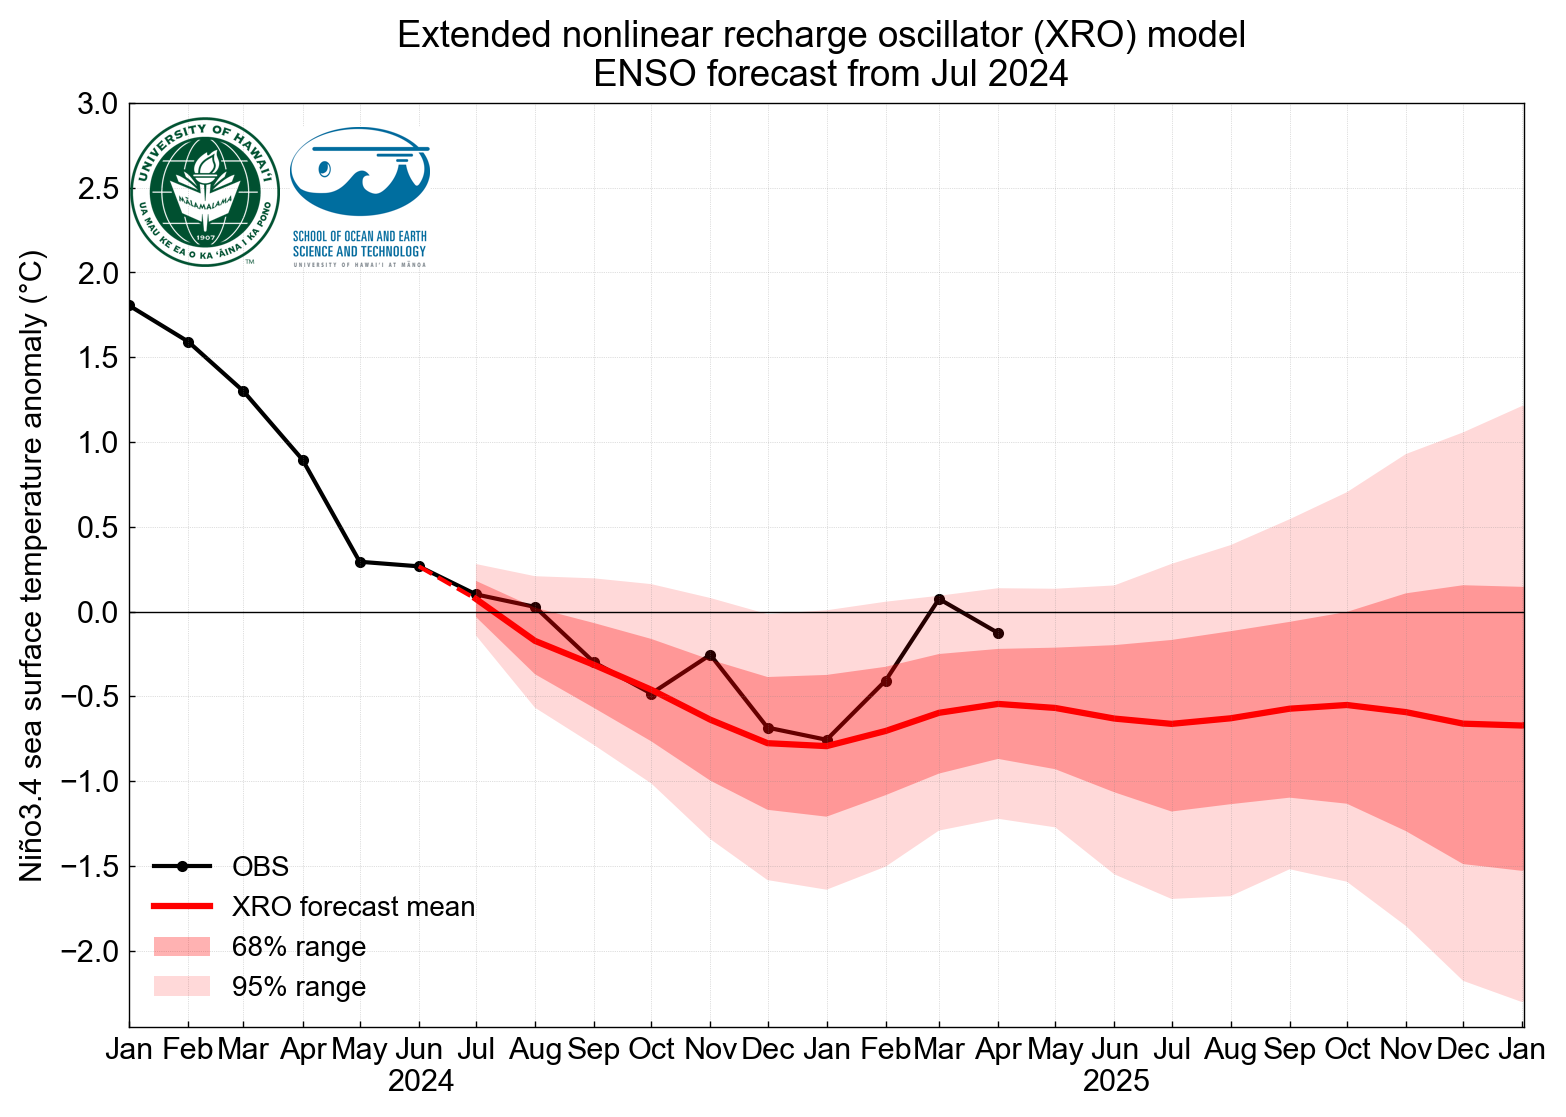
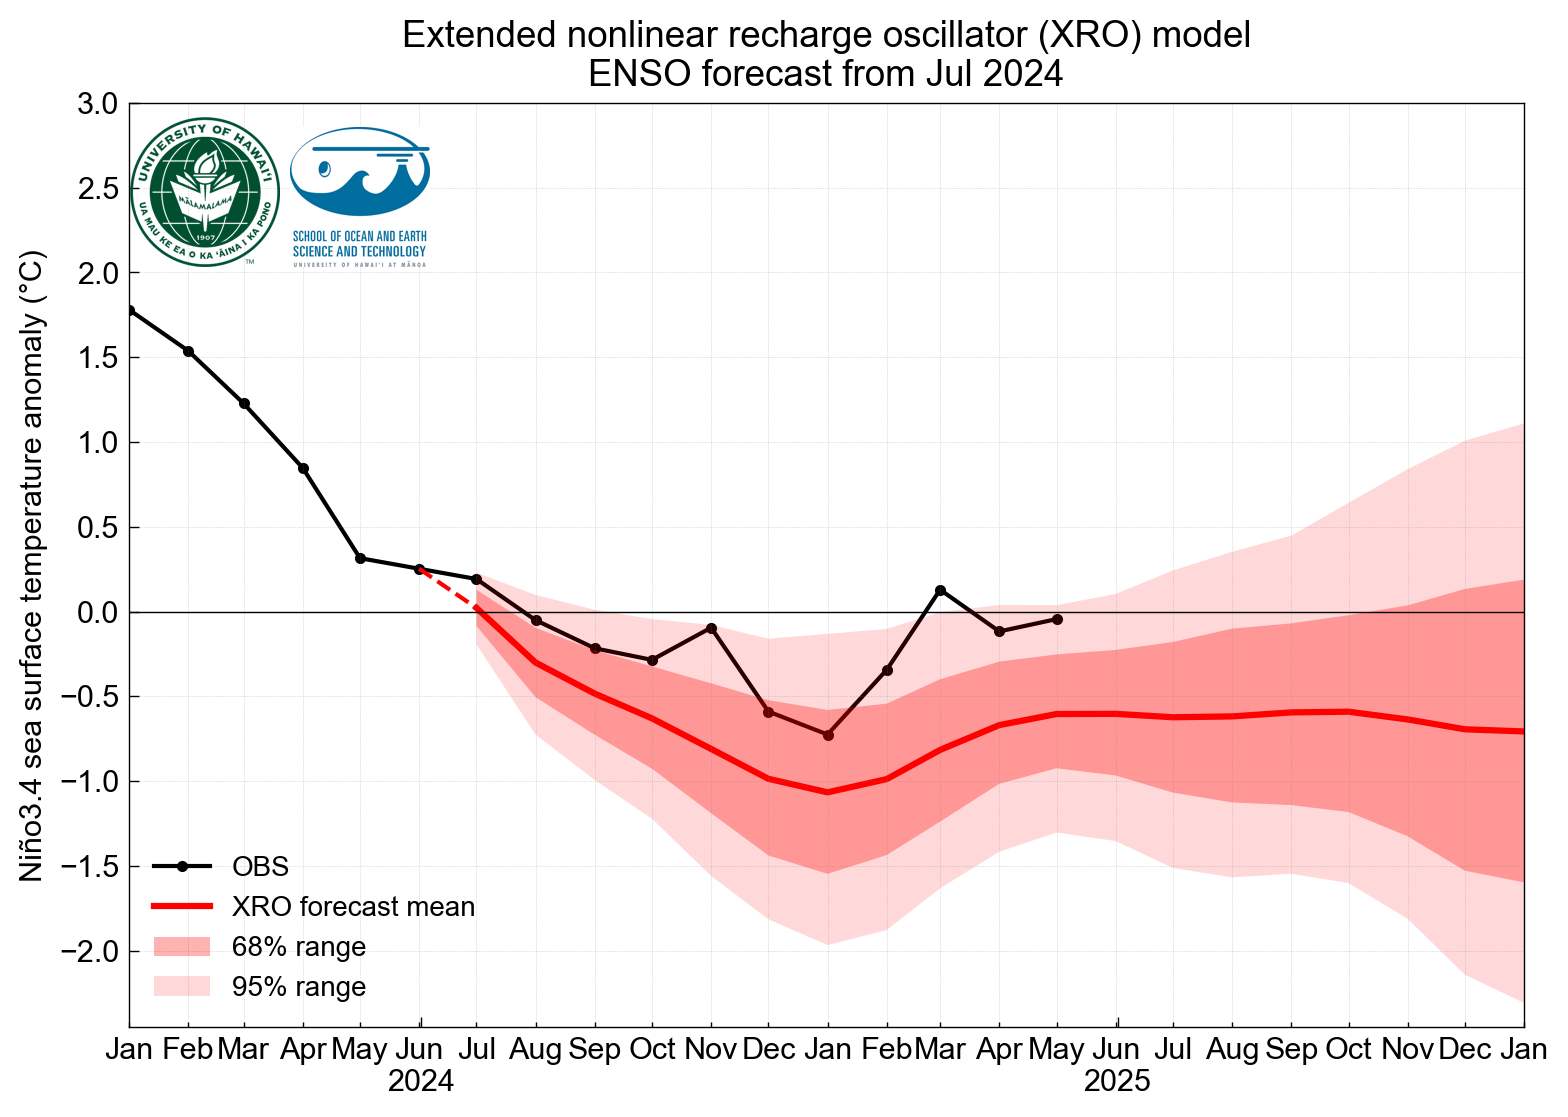
update: XRO fcst update

diff --git a/content/climate/XRO/data.md b/content/climate/XRO/data.md
@@ -1,51 +1,176 @@
 ---
-# Documentation: https://sourcethemes.com/academic/docs/managing-content/
 
-linktitle: "Forecast data"
-summary: "Climate hindicasts and forecasts using the Extended nonlinear recharge oscillator (XRO) model "
+linktitle: "ENSO Forecast Data"
+summary: ""
 weight: 1
 
 # Page metadata.
-title: XRO Niño3.4 monthly forecast data
+title: "Operational XRO Climate Forecasts"
 date: "2024-08-09T00:00:00Z"
 lastmod: "2024-08-09T00:00:00Z"
-draft: false  # Is this a draft? true/false
+draft: false
 toc: false  # Show table of contents? true/false
-# type: book  # Do not modify.
-
-# Add menu entry to sidebar.
-# - name: Declare this menu item as a parent with ID `name`.
-# - weight: Position of link in menu.
+type: book  # Do not modify.
 
 
 ---
 
-## 
-Deterministic **XRO** forecast in which the stochastic forcing terms are neglected during the integration (See details in Zhao et al. 2024)
+### 📝 XRO Niño3.4 SST anomaly monthly forecast data
 
+Deterministic **XRO** Niño3.4 SST anomaly monthly forecasts (where stochastic forcing terms are excluded during model integration, see [Zhao et al., 2024, Nature](https://rdcu.be/dLZxC) for model formulation and details.)
+- Units are in **degrees Celsius (°C)**
+- Forecasts are updated monthly
 
+---
+
+<!-- Load SheetJS library -->
 <script src="https://cdnjs.cloudflare.com/ajax/libs/xlsx/0.18.5/xlsx.full.min.js"></script>
 
+<!-- Excel Table Container -->
+<div id="excel-display" style="margin-top: 1em;"></div>
 
-<div id="excel-display"></div>
+<!-- Styling for Excel Table -->
+<style>
+  #excel-display table {
+    border-collapse: collapse;
+    width: 100%;
+    font-family: Arial, sans-serif;
+    font-size: 14px;
+    margin-top: 1rem;
+  }
 
+  #excel-display th, #excel-display td {
+    border: 1px solid #ddd;
+    padding: 8px;
+    text-align: center;
+  }
 
+  #excel-display thead tr th {
+    font-weight: bold;
+    background-color: #f2f2f2;
+  }
+
+  #excel-display tbody tr:nth-child(even) {
+    background-color: #f9f9f9;
+  }
+
+  #excel-display tbody tr:hover {
+    background-color: #f1f1f1;
+  }
+
+  #excel-display tbody td:first-child {
+    font-weight: bold;
+    background-color: #fafafa;
+  }
+</style>
+
+<!-- Script -->
 <script>
-  function handleFileSelect() {
-    const url = '../XRO_ENSO_fcst.xlsx'; // Replace with the actual path to your Excel file
+  async function handleFileSelect() {
+    const url = '../XRO_ENSO_fcst.xlsx';  // Adjust path as needed
 
-    fetch(url)
-      .then(response => response.arrayBuffer())
-      .then(data => {
-        const workbook = XLSX.read(data, { type: 'array' });
-        const sheetName = workbook.SheetNames[0];
-        const worksheet = workbook.Sheets[sheetName];
-        const htmlString = XLSX.utils.sheet_to_html(worksheet);
+    try {
+      const response = await fetch(url);
+      const arrayBuffer = await response.arrayBuffer();
+      const workbook = XLSX.read(arrayBuffer, { type: 'array' });
+      const sheetName = workbook.SheetNames[0];
+      const worksheet = workbook.Sheets[sheetName];
 
-        document.getElementById('excel-display').innerHTML = htmlString;
-      })
-      .catch(error => console.error('Error fetching the Excel file:', error));
+      const rawHTML = XLSX.utils.sheet_to_html(worksheet, { header: "", editable: false });
+      const parser = new DOMParser();
+      const doc = parser.parseFromString(rawHTML, 'text/html');
+      const table = doc.querySelector('table');
+
+      // Replace first row with <th>
+      const firstRow = table.rows[0];
+      const thRow = document.createElement('tr');
+      for (let cell of firstRow.cells) {
+        const th = document.createElement('th');
+        th.innerHTML = cell.innerHTML;
+        thRow.appendChild(th);
+      }
+      table.deleteRow(0);
+      const thead = document.createElement('thead');
+      thead.appendChild(thRow);
+      table.insertBefore(thead, table.firstChild);
+
+      // Reverse tbody row order
+      const tbody = table.querySelector('tbody');
+      const rows = Array.from(tbody.rows);
+      rows.reverse().forEach(row => tbody.appendChild(row));
+
+      // Apply conditional formatting to cells
+      for (const row of tbody.rows) {
+        for (let i = 1; i < row.cells.length; i++) {
+          const cell = row.cells[i];
+          const val = parseFloat(cell.textContent);
+          if (!isNaN(val)) {
+            if (val <= -1.5) {
+              cell.style.backgroundColor = '#74c0fc'; // blue
+            } else if (val > -1.5 && val <= -0.5) {
+              cell.style.backgroundColor = '#d0ebff'; // light blue
+            } else if (val >= 0.5 && val < 1.5) {
+              cell.style.backgroundColor = '#ffd6d6'; // light red
+            } else if (val >= 1.5) {
+              cell.style.backgroundColor = '#ff6b6b'; // red
+            } else {
+              cell.style.backgroundColor = '#ffffff'; // white
+            }
+          }
+        }
+      }
+
+      // Display the final table
+      document.getElementById('excel-display').appendChild(table);
+
+    } catch (error) {
+      console.error('Error loading Excel file:', error);
+      document.getElementById('excel-display').innerHTML =
+        "<p style='color:red;'>Failed to load forecast data. Please try again later.</p>";
+    }
   }
 
   window.onload = handleFileSelect;
 </script>
+
+<p id="last-mod-date" style="font-style: italic; font-size: 0.9em; margin-top: 1em;"></p>
+
+<script>
+  async function showExcelLastModified() {
+    const url = '../XRO_ENSO_fcst.xlsx';  // Excel file path
+
+    try {
+      const response = await fetch(url, { method: 'HEAD' });  // HEAD request only
+      if (!response.ok) throw new Error('Network response was not ok');
+
+      const lastMod = response.headers.get('Last-Modified');
+      if (lastMod) {
+        const date = new Date(lastMod);
+        document.getElementById('last-mod-date').textContent = 
+          `Forecast data last updated on: ${date.toLocaleDateString()} ${date.toLocaleTimeString()}`;
+      } else {
+        document.getElementById('last-mod-date').textContent = 'Last updated date not available.';
+      }
+    } catch (error) {
+      console.error('Error fetching last-modified header:', error);
+      document.getElementById('last-mod-date').textContent = 'Error fetching update date.';
+    }
+  }
+
+  showExcelLastModified();
+</script>
+
+
+---
+
+### 📝 Notes:
+- **Lead = 0 month** corresponds to the observed Niño3.4 anomaly (i.e., the initial condition).
+- **Positive leads** (Lead = 1, 2, ...) represent forecast months after initialization.
+- Warm anomalies (**El Niño**) and cold anomalies (**La Niña**) are shaded for clarity based on thresholds:
+  - **Red**: ≥ +1.5 °C  
+  - **Light red**: +0.5 to +1.5 °C  
+  - **White**: –0.5 to +0.5 °C  
+  - **Light blue**: –1.5 to –0.5 °C  
+  - **Blue**: ≤ –1.5 °C
+- Forecasts are most reliable within the first few leads (1–6 months), depending on the season and background state.
+

diff --git a/content/climate/XRO/_index.md b/content/climate/XRO/_index.md
@@ -1,12 +1,12 @@
 ---
 # Documentation: https://sourcethemes.com/academic/docs/managing-content/
 
-linktitle: "XRO ENSO Forecasts"
+linktitle: "ENSO Forecast"
 summary: "Climate hindicasts and forecasts using the Extended nonlinear recharge oscillator (XRO) model "
 weight: 1
 
 # Page metadata.
-title: XRO ENSO Forecasts
+title: Operational XRO Climate Forecasts
 date: "2024-08-09T00:00:00Z"
 lastmod: "2024-08-09T00:00:00Z"
 draft: false  # Is this a draft? true/false
@@ -19,7 +19,7 @@ type: book  # Do not modify.
 
 ---
 
-### ENSO forecasts
+### 📝 XRO Niño3.4 SST anomaly monthly forecast
 
 <style>
   #image-selector {
@@ -202,14 +202,33 @@ type: book  # Do not modify.
 
 The XRO is an e**X**tended nonlinear **R**echarge **O**scillator model for El Niño-Southern Oscillation (ENSO) and other modes of variability in the global oceans ([Zhao et al. 2024](#ref-zhao-2024)). It builds on the legacies of the Hasselmann stochastic climate model capturing upper ocean memory in sea surface temperature (SST) variability ([Hasselmann, 1976](#ref-hasselmann-1976)), and the recharge oscillator model for the oscillatory core dynamics of ENSO ([Jin, 1997](#ref-jin-1997)). It constitutes a parsimonious representation of the climate system in a reduced variable and parameter space that still captures the essential dynamics of interconnected global climate variability. For the detailed formulation of XRO model, please refer to our paper ([Zhao et al., 2024](#ref-zhao-2024)).
 
+
+### XRO ENSO forecast skill
+![Forecast correlation skill (ACC) for Niño3.4 and WWV across model combinations derived from different SST and WWV data](XRO_out_of_sample_skill_2012-2024.png)
+**Figure 1**: Out-of-sample forecast accuracy from XRO trained on 1982–2011 data and verified over 2012–2024. Lines show correlation skill as a function of lead month for different combinations of SST and WWV datasets (e.g., `OISSTv2_godas`, `ERA5_oras5`, etc.).
+
+![Forecast correlation skill (ACC) for Niño3.4 and WWV across model combinations derived from different SST and WWV data](XRO_in_sample_skill_1982-2024.png)
+**Figure 2**: In-sample forecast accuracy from XRO trained on 1982–2024.
+
 ### Data source
 
-Here we make a 18-month forecast with the trained XRO model using the climate mode indices for 1982-2022 and initial conditions beginning in January 2023. The XRO state vectors of ENSO and other climate modes 
-- SST anomaly indices derived from the monthly OISST v2 SST data provided by NOAA, PSL at https://psl.noaa.gov/data/gridded/data.noaa.oisst.v2.highres.html
-- Warm water volume index of equatorial Pacific heat content provided by NOAA, PMEL at https://www.pmel.noaa.gov/elnino/upper-ocean-heat-content-and-enso
+Operationally, we produce 18-month forecasts using the trained XRO model based on climate mode indices from 1982–2022, with initial conditions starting in January 2023. The XRO state vectors include ENSO and other climate modes, derived from:
+
+- **Monthly SST anomaly indices**, based on:
+  - [OISST v2.1](https://psl.noaa.gov/data/gridded/data.noaa.oisst.v2.highres.html) provided by NOAA/PSL
+  - [ERA5](https://doi.org/10.24381/cds.f17050d7) provided by the Copernicus Climate Change Service (C3S)
+  - [ORAS5](https://doi.org/10.24381/cds.67e8eeb7) SST provided by C3S
+  - [GODAS](https://psl.noaa.gov/data/gridded/data.godas.html) SST provided by NOAA/PSL
+
+- **Monthly Warm Water Volume (WWV) index** of equatorial Pacific upper-ocean heat content, based on:
+  - [TAO](https://www.pmel.noaa.gov/elnino/upper-ocean-heat-content-and-enso) data provided by NOAA/PMEL
+  - [IAPv4 subsurface temperature](http://www.ocean.iap.ac.cn/ftp/cheng/IAPv4.2_IAP_Temperature_gridded_1month_netcdf) provided by Lijing Cheng at IAP, Chinese Academy of Sciences
+  - [ORAS5](https://doi.org/10.24381/cds.67e8eeb7) D20 provided by C3S 
+  - [GODAS](https://psl.noaa.gov/data/gridded/data.godas.html) provided by NOAA/PSL
 
 We conduct 1000-member stochastic forecasts with the same initial conditions for each month but different stochastic forcings, See Supplementary Fig. 16 in [Zhao et al. (2024)](#ref-zhao-2024) for how we make 1000-member stochastic forecasts in details.
 
+Due to delays in TAO updates, the OISSTv2_IAPv4 version has been adopted for the official release starting June 2025.
 
 ### References
 

diff --git a/content/climate/XRO/IOD.md b/content/climate/XRO/IOD.md
@@ -1,16 +1,16 @@
 ---
 # Documentation: https://sourcethemes.com/academic/docs/managing-content/
 
-linktitle: "Indian Ocean Dipole (IOD) Forecasts"
+linktitle: "Indian Ocean SST modes forecast"
 summary: "Climate hindicasts and forecasts using the Extended nonlinear recharge oscillator (XRO) model "
 weight: 1
 
 # Page metadata.
-title: XRO Forecasts
+title: "Operational XRO Climate Forecasts"
 date: "2024-08-09T00:00:00Z"
 lastmod: "2024-08-09T00:00:00Z"
-draft: true  # Is this a draft? true/false
-toc: true  # Show table of contents? true/false
+draft: true
+toc: false  # Show table of contents? true/false
 type: book  # Do not modify.
 
 # Add menu entry to sidebar.
@@ -197,30 +197,8 @@ type: book  # Do not modify.
   };
 </script>
 
-### XRO model 
 
-The XRO is an e**X**tended nonlinear **R**echarge **O**scillator model for El Niño-Southern Oscillation (ENSO) and other modes of variability in the global oceans ([Zhao et al. 2024](#ref-zhao-2024)). It builds on the legacies of the Hasselmann stochastic climate model capturing upper ocean memory in sea surface temperature (SST) variability ([Hasselmann, 1976](#ref-hasselmann-1976)), and the recharge oscillator model for the oscillatory core dynamics of ENSO ([Jin, 1997](#ref-jin-1997)). It constitutes a parsimonious representation of the climate system in a reduced variable and parameter space that still captures the essential dynamics of interconnected global climate variability. For the detailed formulation of XRO model, please refer to our paper ([Zhao et al., 2024](#ref-zhao-2024)).
 
-### Data source
-
-Here we make a 18-month forecast with the trained XRO model using the climate mode indices for 1982-2022 and initial conditions beginning in January 2023. The XRO state vectors of ENSO and other climate modes 
-- SST anomaly indices derived from the monthly OISST v2 SST data provided by NOAA, PSL at https://psl.noaa.gov/data/gridded/data.noaa.oisst.v2.highres.html
-- Warm water volume index of equatorial Pacific heat content provided by NOAA, PMEL at https://www.pmel.noaa.gov/elnino/upper-ocean-heat-content-and-enso
-
-We conduct 100-member stochastic forecasts with the same initial conditions for each month but different stochastic forcings, See Supplementary Fig. 16 in [Zhao et al. (2024)](#ref-zhao-2024) for how we make 100-member stochastic forecasts in details.
-
-### References
-
-<ul class="references">
-  <li><a id="ref-zhao-2024"></a>Zhao, S., Jin, F.-F., Stuecker, M. F., Thompson, P. R., Kug, J.-S., McPhaden, M. J., et al. (2024). Explainable El Niño predictability from climate mode interactions. <strong><em>Nature, 630</em></strong>(8018), 891–898. <a href="https://doi.org/10.1038/s41586-024-07534-6">https://doi.org/10.1038/s41586-024-07534-6</a></li>
-
-  <li><a id="ref-jin-1997"></a>Jin, F.-F. (1997). An equatorial ocean recharge paradigm for ENSO. Part I: conceptual model. <strong><em>Journal of the Atmospheric Sciences, 54</em></strong>, 811–829. <a href="https://doi.org/10.1175/1520-0469(1997)054<0811:aeorpf>2.0.co;2">https://doi.org/10.1175/1520-0469(1997)054&lt;0811:aeorpf&gt;2.0.co;2</a></li>
-
-  <li><a id="ref-hasselmann-1976"></a>Hasselmann, K. (1976). Stochastic climate models Part I. Theory. <strong><em>Tellus, 28</em></strong>(6), 473–485. <a href="https://doi.org/10.1111/j.2153-3490.1976.tb00696.x">https://doi.org/10.1111/j.2153-3490.1976.tb00696.x</a></li>
-</ul>
-
-<!-- {{< cite page="/publication/2024_zhaos_nature_XRO" view="3" >}}
- -->
 
 
 {{% callout warning %}}
